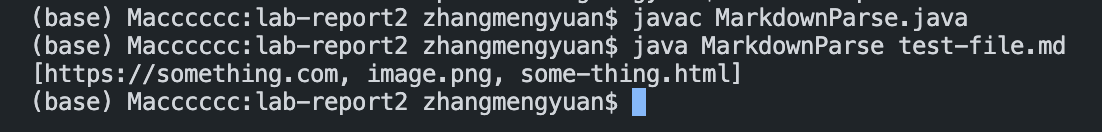
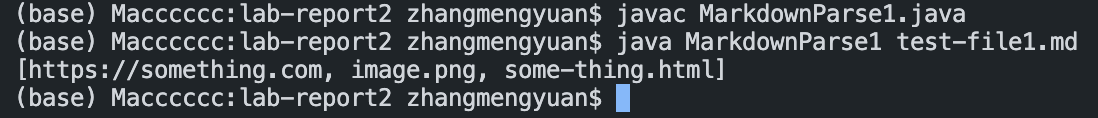
1

diff --git a/lab-report2/MarkdownParse1.java b/lab-report2/MarkdownParse1.java
@@ -17,9 +17,9 @@ public class MarkdownParse1 {
             int openParen = markdown.indexOf("(", closeBracket);
             int closeParen = markdown.indexOf(")", openParen);
             
-            if (markdown.charAt(openBracket - 1) != '!') {
-                toReturn.add(markdown.substring(openParen + 1, closeParen));
-            }
+            // if (markdown.charAt(openBracket - 1) != '!') {
+            toReturn.add(markdown.substring(openParen + 1, closeParen));
+            // }
 
             currentIndex = closeParen + 1;
         }

diff --git a/lab-report2/lab-report-2-week-4.md b/lab-report2/lab-report-2-week-4.md
@@ -1,9 +1,15 @@
 # Lab Report 2
+**This lab will help you with the debugging.**
 
 ## 1. Error 1
-![image](change1.png)
+You can download the test file [here](https://github.com/Meng-zmy/cse15l-lab-reports/blob/1557d6dd6053e678865c2efaba30832bdc7d7d9c/lab-report2/test-file1.md)
+
+**Symptom:** By using this test file, the result I get is incorrect. We want to have only the address of the link, but it also print out the address of the image. Since the image format is `![]()`, it also contain `[]()`.
 
 ![image](error1.png)
+
+
+
 
 
 ## 2. Error 2
